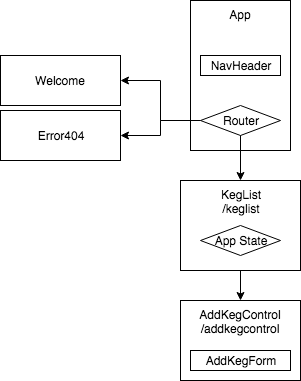
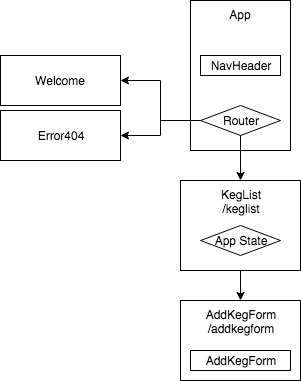
add keg form, lift state to list, remove unused components

Changed region(s): [[0.6578, 0.8084, 0.9269, 0.895]]

diff --git a/src/components/KegList.jsx b/src/components/KegList.jsx
@@ -1,49 +1,48 @@
 import React from 'react';
-import NewKeg from './NewKeg';
-import UseKeg from './UseKeg';
-import DeleteKeg from './DeleteKeg';
+import AddKegForm from './AddKegForm';
 import ListedKeg from './ListedKeg';
+import v4 from 'uuid';
 
-let kegListArray = [
-  {
-    name: 'GingaNinja',
-    brand: 'Two Towns',
-    price: '3.50',
-    alcoholContent: '5.2'
-  },
-  {
-    name: 'Nights of Chris-Lumbus',
-    brand: 'Geno-Ciders',
-    price: '6.50',
-    alcoholContent: '7.5'
-  },
-  {
-    name: 'Over Hopulation',
-    brand: 'Barley Brown\'s Beer',
-    price: '6.00',
-    alcoholContent: '8.5'
-  },
-  {
-    name: 'Black (黑)',
-    brand: 'Mikkeller',
-    price: '9.00',
-    alcoholContent: '17.5'
+class KegList extends React.Component {
+  constructor(props){
+    super(props);
+    this.state = {
+      masterKegList: {
+        0: {
+          name: 'GingaNinja',
+          brand: 'Two Towns',
+          price: '3.50',
+          alcoholContent: '5.2'
+        }
+      }
+    };
+    this.handleAddKegSubmit = this.handleAddKegSubmit.bind(this);
   }
-];
 
-function KegList(){
-  return (
-    <div>
-      <style jsx>{`
+  handleAddKegSubmit(kegToAdd) {
+    let newKegId = v4();
+    let newMasterKegList = Object.assign({}, this.state.masterKegList, {
+      [newKegId]: kegToAdd
+    });
+    this.setState({masterKegList: newMasterKegList});
+  }
 
-      `}</style>
-      <h1>KegList</h1>
-      {kegListArray.map((keg, i) => <ListedKeg keg={keg} i={i}/> )}
-      <NewKeg/>
-      <UseKeg/>
-      <DeleteKeg/>
-    </div>
-  );
+  render(){
+    return (
+      <div>
+        <style jsx>{`
+
+          `}</style>
+        <h1>KegList</h1>
+        {Object.keys(this.state.masterKegList).forEach(kegId => {
+          let keg = this.state.masterKegList[kegId];
+          console.log(keg);
+          console.log(kegId);
+          return <ListedKeg keg={keg} key={kegId} i={kegId} />;
+        })}
+      </div>
+    );
+  }
 }
 
 export default KegList;

diff --git a/src/components/AddKegForm.jsx b/src/components/AddKegForm.jsx
@@ -1,0 +1,36 @@
+import React from 'react';
+import PropTypes from 'prop-types';
+
+function AddKegForm(props){
+  let _name = null;
+  let _brand = null;
+  let _price = null;
+  let _alcoholContent = null;
+
+  function handleInputs(){
+    props.onAddKegSubmit({name: _name.value, brand: _brand.value, price: _price.value, alcoholContent: _alcoholContent.value});
+  }
+
+  return (
+    <div>
+      <h1>Add Keg Form</h1>
+      <div>
+        <label>Name</label>
+        <input ref={input => _name = input} />
+        <label>Brand</label>
+        <input ref={input => _brand = input} />
+        <label>Price per pt</label>
+        <input ref={input => _price = input} />
+        <label>Alcohol Content</label>
+        <input ref={input => _alcoholContent = input} />
+        <button onClick={handleInputs}>Add Keg</button>
+      </div>
+    </div>
+  );
+}
+
+AddKegForm.propTypes = {
+  onAddKegSubmit: PropTypes.func
+};
+
+export default AddKegForm;

diff --git a/src/components/ListedKeg.jsx b/src/components/ListedKeg.jsx
@@ -2,6 +2,7 @@ import React from 'react';
 import PropTypes from 'prop-types';
 
 function ListedKeg(props){
+  console.log('here');
   return (
     <div id='keg-card'>
       <style jsx>{`
@@ -13,7 +14,7 @@ function ListedKeg(props){
         }
       `}</style>
       <hr/>
-      <h3>{props.i + 1}. {props.keg.name}</h3>
+      <h3>{props.i}. {props.keg.name}</h3>
       <p>by {props.keg.brand}</p>
       <p>$ {props.keg.price}</p>
       <p>abv: {props.keg.alcoholContent} %</p>
@@ -23,7 +24,7 @@ function ListedKeg(props){
 
 ListedKeg.propTypes = {
   keg: PropTypes.object.isRequired,
-  i: PropTypes.number.isRequired
+  i: PropTypes.string.isRequired
 };
 
 export default ListedKeg;

diff --git a/src/components/NavHeader.jsx b/src/components/NavHeader.jsx
@@ -9,7 +9,7 @@ function NavHeader(){
     margin: 5,
     background: 'orange',
     borderRadius: 5
-  }
+  };
   return (
     <div id='flex-container'>
       <style jsx>{`

diff --git a/src/components/Error404.jsx b/src/components/Error404.jsx
@@ -1,4 +1,4 @@
-import React from 'react'; // always import core React library
+import React from 'react';
 import { Link } from 'react-router-dom';
 
 function Error404(){
